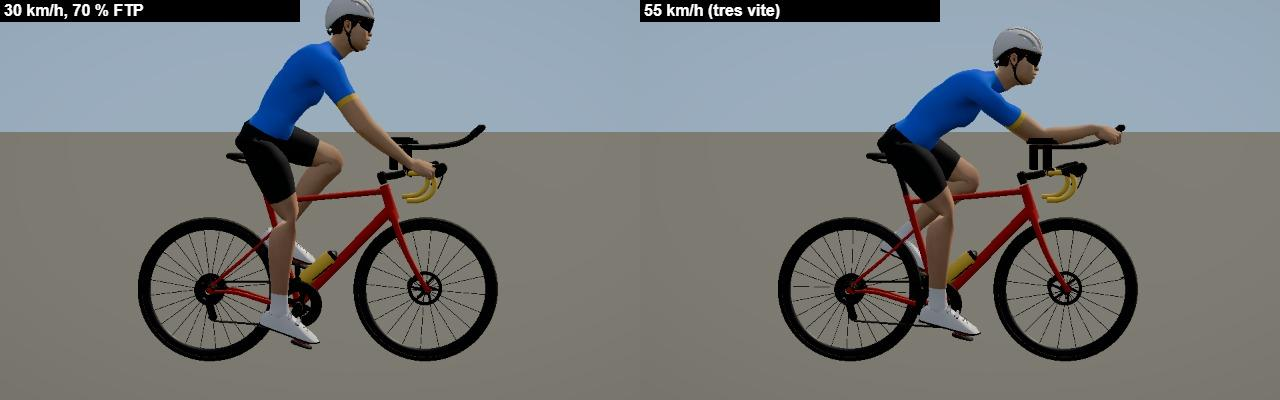
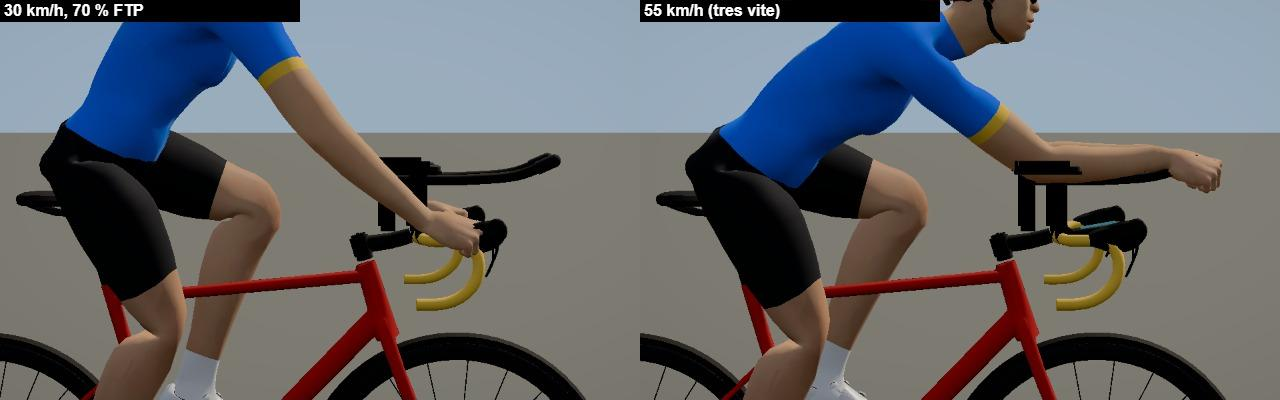
fix(prolongateurs) : extensions plus courtes et moins relevées, avant-bras couchés dessus

diff --git a/apps/client/src/rider/aerobars.ts b/apps/client/src/rider/aerobars.ts
@@ -19,8 +19,8 @@ interface KindDef {
 }
 
 const KINDS: Record<AerobarKind, KindDef> = {
-  clip: { stack: 0.04, tipRise: 0.05 },
-  'clip-haut': { stack: 0.12, tipRise: 0.09 },
+  clip: { stack: 0.04, tipRise: 0.03 },
+  'clip-haut': { stack: 0.12, tipRise: 0.04 },
 };
 
 /** Haut du cintre (milieu, sur la potence) par rapport à l'ancre de la cocotte (mesuré sur le vélo de base). */
@@ -32,7 +32,7 @@ const PAD_W = 0.088;
 const PAD_BACK = 0.035;
 /** Extensions : écart (x), longueur au-delà du cintre (m), rayon du tube. */
 const EXT_X = 0.06;
-const EXT_REACH = 0.33;
+const EXT_REACH = 0.27;
 const EXT_R = 0.011;
 
 type Side = 'L' | 'R';
@@ -55,8 +55,8 @@ function extensionCurve(kind: AerobarKind, top: THREE.Vector3, sx: number): THRE
   const z0 = top.z;
   return new THREE.CatmullRomCurve3([
     new THREE.Vector3(sx * EXT_X, y0, z0 - 0.07),
-    new THREE.Vector3(sx * EXT_X, y0 + 0.002, z0 + 0.12),
-    new THREE.Vector3(sx * EXT_X * 0.88, y0 + k.tipRise * 0.3, z0 + 0.25),
+    new THREE.Vector3(sx * EXT_X, y0 + 0.002, z0 + 0.1),
+    new THREE.Vector3(sx * EXT_X * 0.88, y0 + k.tipRise * 0.3, z0 + 0.2),
     new THREE.Vector3(sx * EXT_X * 0.8, y0 + k.tipRise, z0 + EXT_REACH),
   ]);
 }
@@ -64,9 +64,10 @@ function extensionCurve(kind: AerobarKind, top: THREE.Vector3, sx: number): THRE
 export function aerobarAnchors(kind: AerobarKind, hands: Record<Side, THREE.Vector3>): AerobarAnchors {
   const top = barTop(hands);
   const k = KINDS[kind];
-  const pad = (sx: number) => new THREE.Vector3(sx * PAD_X, top.y + k.stack + 0.035, top.z - PAD_BACK - 0.02);
-  // Poignée : un peu avant le bout de l'extension.
-  const grip = (sx: number) => extensionCurve(kind, top, sx).getPoint(0.9).add(new THREE.Vector3(0, 0.02, 0));
+  // Coude posé dans le repose-coude (articulation à un rayon d'avant-bras au-dessus de la mousse).
+  const pad = (sx: number) => new THREE.Vector3(sx * PAD_X, top.y + k.stack + 0.028, top.z - PAD_BACK - 0.02);
+  // Poignée : au bout de l'extension, main refermée dessus (avant-bras couché le long de l'extension).
+  const grip = (sx: number) => extensionCurve(kind, top, sx).getPoint(0.92).add(new THREE.Vector3(0, 0.012, 0));
   return { pads: { L: pad(1), R: pad(-1) }, grips: { L: grip(1), R: grip(-1) } };
 }
 
